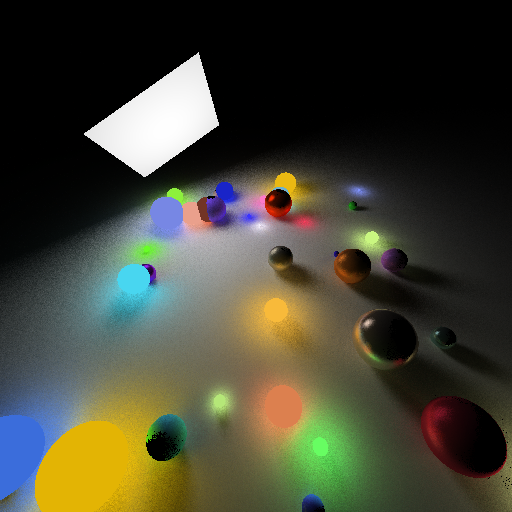
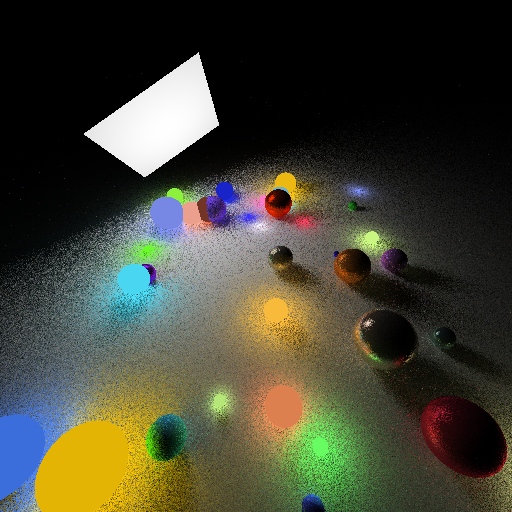
Fixed saturated mapper

diff --git a/src/main.cpp b/src/main.cpp
@@ -11,7 +11,7 @@ using namespace Raytracer;
 
 #define WIDTH 512
 #define HEIGHT 512
-#define SAMPLES 64
+#define SAMPLES 4
 #define SCALE 8.0f
 #define SCENE 1
 #define OBJECTS 40
@@ -127,7 +127,7 @@ int main() {
 
     time(&end);
 
-    Raytracer::World::writeImage(pixels, "desatuatingmapper.png");
+    Raytracer::World::writeImage(pixels, "test.png");
 
     std::cout << "Time: " << difftime(end, start) << " seconds" << std::endl;
 

diff --git a/src/World.cpp b/src/World.cpp
@@ -4,6 +4,7 @@
 
 #include "World.h"
 
+#define SATURATE_COLOR
 
 namespace Raytracer {
 
@@ -257,6 +258,10 @@ namespace Raytracer {
     glm::vec3 World::mapColor(glm::vec3 color) {
 
 #ifdef SATURATE_COLOR
+
+        if(color == glm::vec3(0.0f)) {
+            return glm::vec3(0.0f);
+        }
 
         // Simple HDR color mapping
         float max = std::max(std::max(color.x, color.y), color.z);
